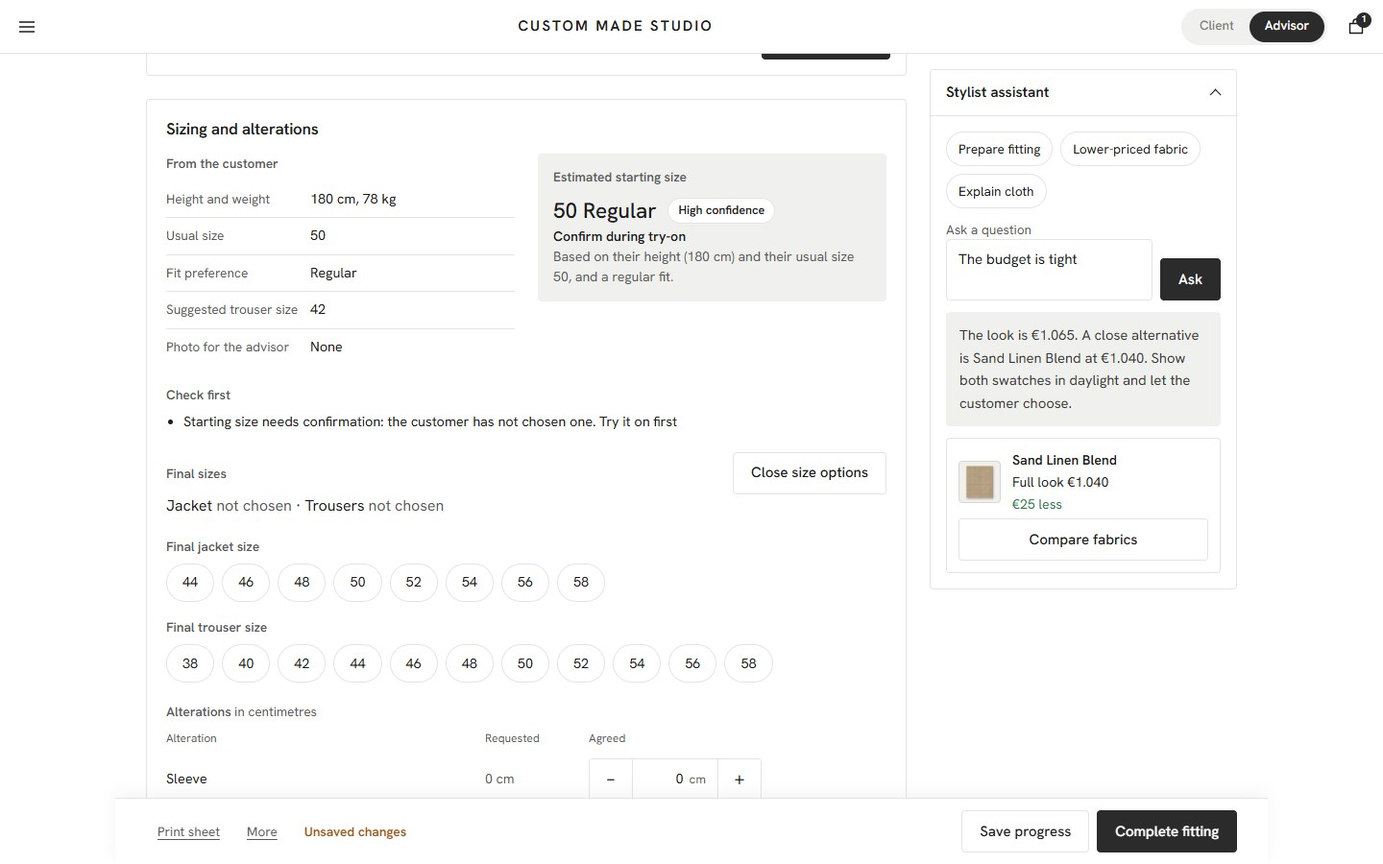
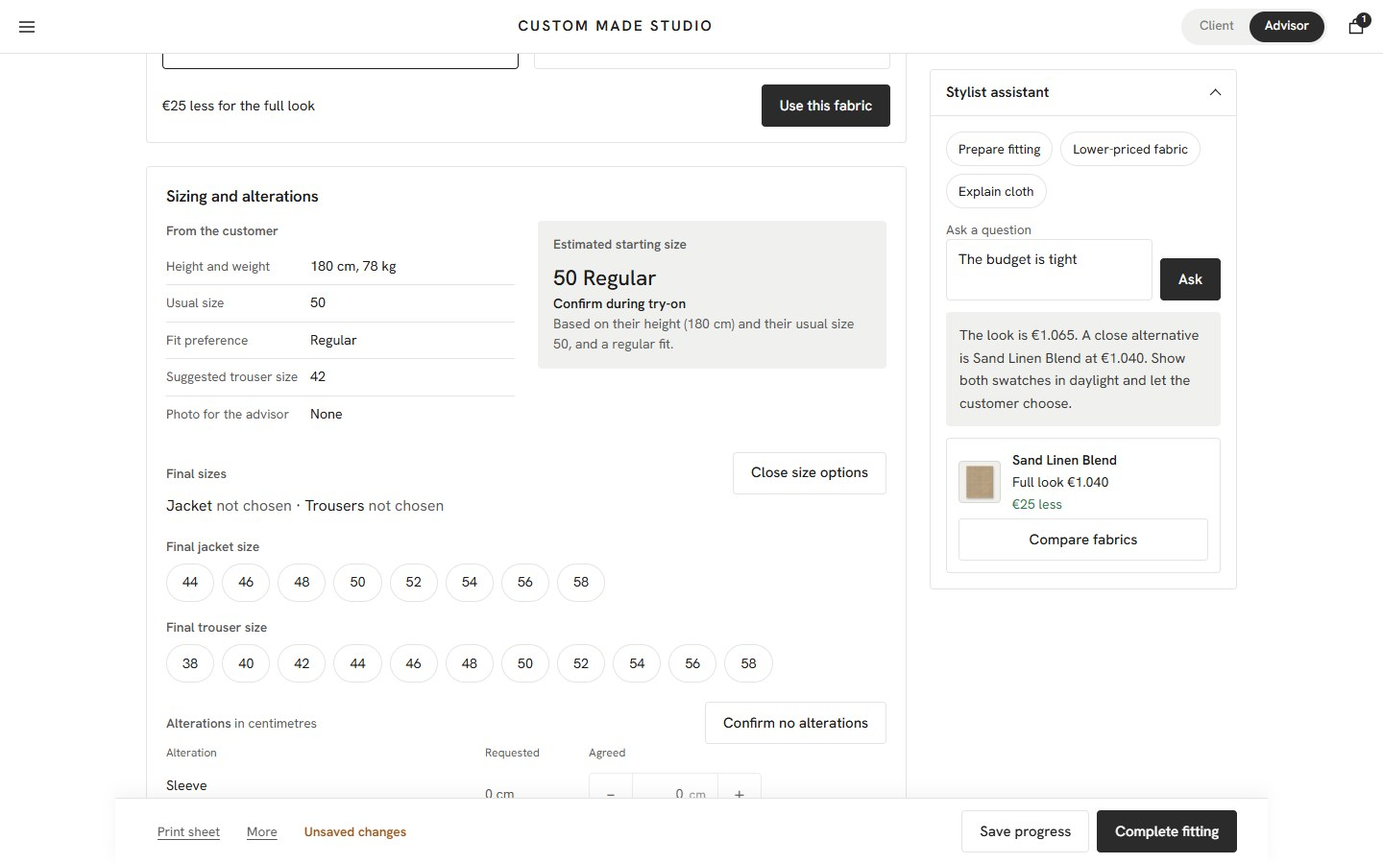
Advisor round 4: separate save state, alterations not-reviewed and confirm, all missing items flagged, no confidence badge, aligned print table, clean option prices, phone More menu; 130 checks

diff --git a/js/app.js b/js/app.js
@@ -372,7 +372,9 @@
     var box = target || $('adjs'); box.innerHTML = '';
     D.adjustments.forEach(function (a) {
       var row = el('div', 'adj');
-      row.appendChild(el('span', '', a.label));
+      var lab = el('span', '', a.label), note = null;
+      if (requested) { note = el('small', 'adj-note', ''); lab.appendChild(note); }
+      row.appendChild(lab);
       if (requested) { var rq = requested[a.key] || 0; row.appendChild(el('span', 'adj-req', rq ? (rq > 0 ? '+' : '') + rq + ' cm' : '0 cm')); }
       if (requested) row.appendChild(el('span', 'adj-agreed-lab', 'Agreed'));
       var s = el('div', 'stepper');
@@ -380,11 +382,12 @@
       var inp = s.querySelector('input'), bt = s.querySelectorAll('button');
       var values = agreed || st.adj;
       var cur = values[a.key] || 0; inp.value = cur > 0 ? '+' + cur : String(cur);
-      var set = function (v) { v = Math.max(-4, Math.min(4, Math.round(v * 2) / 2)); values[a.key] = v; if (agreed) st.agreed[a.key] = v; inp.value = v > 0 ? '+' + v : String(v); if (!agreed) update(); else if (requested) row.classList.toggle('is-changed', v !== (requested[a.key] || 0)); };
+      var mark = function () { if (note) { var seen = Object.prototype.hasOwnProperty.call(st.agreed, a.key); note.textContent = seen ? '' : 'Not reviewed'; row.classList.toggle('is-unreviewed', !seen); } };
+      var set = function (v) { v = Math.max(-4, Math.min(4, Math.round(v * 2) / 2)); values[a.key] = v; if (agreed) st.agreed[a.key] = v; mark(); if (requested && altsConfirmed()) { clearErr('alts'); var ae = $('advAltError'), cb = $('advConfirmAlts'), dn = $('advAltsDone'); if (ae) ae.hidden = true; if (cb) cb.hidden = true; if (dn) dn.hidden = false; } inp.value = v > 0 ? '+' + v : String(v); if (!agreed) update(); else if (requested) row.classList.toggle('is-changed', v !== (requested[a.key] || 0)); };
       bt[0].onclick = function () { set(values[a.key] - 0.5); };
       bt[1].onclick = function () { set(values[a.key] + 0.5); };
       inp.onchange = function () { var v = parseFloat(inp.value.replace(',', '.')); set(isNaN(v) ? 0 : v); };
-      row.appendChild(s); box.appendChild(row);
+      row.appendChild(s); box.appendChild(row); mark();
       if (requested) row.classList.toggle('is-changed', (values[a.key] || 0) !== (requested[a.key] || 0));
     });
   }
@@ -558,29 +561,31 @@
     if (advDirty() && advUi.status && !advUi.saveFail) advUi.status = null; /* an edit replaces the last message at once */
     paintStatus();
   }
+  function altsConfirmed() {
+    var ag = st.agreed || {};
+    return D.adjustments.every(function (a) { return Object.prototype.hasOwnProperty.call(ag, a.key); });
+  }
+  function clearErr(key) { if (advUi.errs) advUi.errs[key] = null; }
   function nowHM() { var d = new Date(); return String(d.getHours()).padStart(2, '0') + ':' + String(d.getMinutes()).padStart(2, '0'); }
   /* switching customers never throws away unsaved work: save and switch, or discard, or keep editing */
   function guardSwitch(go) {
     if (!advDirty()) { go(); return; }
     advUi.pending = go; renderAdvisor();
   }
-  function advReset() { advUi.base = null; advUi.pending = null; advUi.lookup = false; advUi.contact = false; advUi.sizeError = null; advUi.optMore = false; advUi.savedAt = null; advUi.saveFail = false; advUi.lookRows = false; advUi.focusSize = null; advUi.walk = false; advUi.follow = false; advUi.question = ''; advUi.search = ''; advUi.answer = null; advUi.status = null; advUi.assist = null; advUi.fabric = false; advUi.sizes = false; }
+  function advReset() { advUi.base = null; advUi.pending = null; advUi.lookup = false; advUi.contact = false; advUi.errs = null; advUi.optMore = false; advUi.savedAt = null; advUi.saveFail = false; advUi.lookRows = false; advUi.focusSize = null; advUi.walk = false; advUi.follow = false; advUi.question = ''; advUi.search = ''; advUi.answer = null; advUi.status = null; advUi.assist = null; advUi.fabric = false; advUi.sizes = false; }
   function flash(message, kind) {
     var d = new Date(), at = String(d.getHours()).padStart(2, '0') + ':' + String(d.getMinutes()).padStart(2, '0');
     advUi.status = { text: message, kind: kind || 'ok', at: at };
     paintStatus();
   }
   function paintStatus() {
-    var box = $('advStatus'); if (!box) return;
+    var box = $('advStatus'), stateBox = $('advSaveState'); if (!box || !stateBox) return;
     var s = advUi.status, dirty = advDirty();
-    if (s && (s.kind === 'error' || !dirty)) {
-      box.className = 'adv-status-line is-' + s.kind;
-      box.textContent = s.text + (s.kind === 'ok' ? ' · ' + s.at : '');
-      return;
-    }
     var state = advUi.saveFail ? 'Save failed. Retry' : dirty ? 'Unsaved changes' : advUi.savedAt ? 'Saved at ' + advUi.savedAt + ' in this browser' : st.code ? 'Saved in this browser' : 'Not saved';
-    box.className = 'adv-status-line is-state' + (advUi.saveFail ? ' is-error' : dirty ? ' is-dirty' : '');
-    box.textContent = state;
+    stateBox.className = 'adv-save-state' + (advUi.saveFail ? ' is-error' : dirty ? ' is-dirty' : '');
+    stateBox.textContent = state;
+    if (s && (s.kind === 'error' || !dirty)) { box.className = 'adv-status-line is-' + s.kind; box.textContent = s.text + (s.kind === 'ok' ? ' · ' + s.at : ''); }
+    else { box.className = 'adv-status-line'; box.textContent = ''; }
   }
 
   function wireStylistAssistant() {
@@ -640,8 +645,8 @@
         var body = el('div', 'adv-option-text');
         body.appendChild(el('b', '', c.name));
         body.appendChild(el('span', 'adv-option-weave', weaveLabel[c.weave] || c.weave));
-        var price = el('span', 'adv-option-price' + (d < 0 ? ' is-less' : ''), 'Full look ' + money(total() + d) + ' · '); price.appendChild(el('span', 'nw', d === 0 ? 'same price' : (d > 0 ? '+' : '−') + money(Math.abs(d))));
-        body.appendChild(price);
+        body.appendChild(el('span', 'adv-option-price', 'Full look ' + money(total() + d)));
+        body.appendChild(el('span', 'adv-option-diff' + (d < 0 ? ' is-less' : ''), d === 0 ? 'Same price' : money(Math.abs(d)) + (d > 0 ? ' more' : ' less')));
         if (seen.indexOf(c.id) > -1) body.appendChild(el('span', 'adv-option-tag', 'Shown online'));
         var go = el('button', 'btn ghost', 'Compare'); go.type = 'button'; go.setAttribute('aria-label', 'Compare ' + c.name);
         go.onclick = function () { openCompare(c); };
@@ -964,13 +969,13 @@
     var dflt = JSON.parse(initialFitting), unprov = !!(st.advWalk && st.h === dflt.h && st.w === dflt.w && st.usual === dflt.usual && !st.chest && !st.self);
     var checks = [];
     if (unprov) checks.push('No customer measurements yet. Measure height, weight and chest before choosing a size');
-    else if (!st.size) checks.push('Starting size needs confirmation: the customer has not chosen one. Try it on first');
-    else if (st.level === 'Low') checks.push('Starting size needs confirmation: low confidence on ' + sizeText() + '. Measure before the try-on');
-    else if (st.level === 'Medium') checks.push('Confirm the starting size ' + sizeText() + ' at the try-on (medium confidence)');
+    else if (st.level === 'Low') checks.push('The estimate is rough. Measure chest and shoulders before the try-on');
     if (st.mono.trim()) checks.push('Embroider initials ' + st.mono.toUpperCase() + ' inside the jacket lining');
     var when = st.slot ? st.slot + ', ' + st.city : st.walk ? 'Walk-in' : 'No appointment yet';
     if (!st.agreed) st.agreed = {};
     var agreed = Object.assign({}, st.adj, st.agreed);
+    var errs = advUi.errs || {};
+    var allZero = D.adjustments.every(function (a) { return !agreed[a.key]; });
     var differs = (st.finalSize && st.finalSize !== sg.size) || (st.finalPants && st.finalPants !== pantsSize());
     var dz = curDesign(), status = st.outcome || deciding, statusClass = status === orderReview ? 'is-ready' : status === followUp ? 'is-follow' : 'is-open';
     box.innerHTML =
@@ -979,7 +984,7 @@
       '<div class="adv-bar adv-noprint' + (advUi.lookup ? ' is-lookup' : '') + '">' +
         '<div class="adv-bar-row">' +
           '<form id="openFitting" class="adv-open"><label for="lookupCode">Fitting code</label><input id="lookupCode" type="text" placeholder="CM-XXXXXX" autocomplete="off" autocapitalize="characters" spellcheck="false" maxlength="16"><button type="submit" class="btn">Open fitting</button></form>' +
-          '<div class="adv-bar-tools"><button type="button" class="btn ghost" id="advWalkToggle" aria-expanded="false" aria-controls="walkPanel">Start walk-in</button><button type="button" class="btn ghost" id="advFollowToggle" aria-expanded="false" aria-controls="followPanel"><span id="followCount">Follow-ups</span></button><button type="button" class="btn ghost adv-mobile-only" id="advLookupToggle" aria-expanded="' + (advUi.lookup ? 'true' : 'false') + '" aria-controls="openFitting">Open another fitting</button><span class="adv-mobile-only adv-tool-quiet"><button type="button" class="adv-quiet" id="advPrintTop">Print sheet</button><details class="adv-more"><summary class="adv-quiet">More</summary><div class="adv-more-menu"><button type="button" class="adv-quiet" id="advCsvTop">Export log</button></div></details></span></div>' +
+          '<div class="adv-bar-tools"><button type="button" class="btn ghost" id="advWalkToggle" aria-expanded="false" aria-controls="walkPanel">Start walk-in</button><button type="button" class="btn ghost" id="advFollowToggle" aria-expanded="false" aria-controls="followPanel"><span id="followCount">Follow-ups</span></button><button type="button" class="btn ghost adv-mobile-only" id="advLookupToggle" aria-expanded="' + (advUi.lookup ? 'true' : 'false') + '" aria-controls="openFitting">Open another fitting</button><details class="adv-more adv-mobile-only"><summary class="adv-quiet">More</summary><div class="adv-more-menu"><button type="button" class="adv-quiet" id="advPrintTop">Print sheet</button><button type="button" class="adv-quiet" id="advCsvTop">Export log</button></div></details></div>' +
         '</div>' +
         '<p id="lookupStatus" class="adv-bar-note" role="status"></p>' +
         '<section id="walkPanel" class="adv-panel" aria-label="Start a walk-in" hidden><div class="adv-panel-head"><h4>New walk-in</h4><button type="button" class="adv-quiet" id="walkCancel">Cancel</button></div><form id="walkForm" class="adv-form-grid"><label for="walkName">Customer name<input id="walkName" type="text" maxlength="80" autocomplete="off"></label><label for="walkOcc">Occasion<select id="walkOcc"></select></label><label for="walkDate">Event date (optional)<input type="date" id="walkDate"></label><label for="walkBudget">Budget in euros (optional)<input type="number" min="1" id="walkBudget" inputmode="numeric"></label><div class="adv-form-actions"><button class="btn">Start consultation</button></div></form></section>' +
@@ -1019,18 +1024,18 @@
             '<h3 id="advFitH">Sizing and alterations</h3>' +
             '<div class="adv-two">' +
               '<div><h4>From the customer</h4>' + advRows(unprov ? [['Height and weight', '<span class="muted">Not provided</span>'], ['Usual size', '<span class="muted">Not provided</span>'], ['Fit preference', '<span class="muted">Not provided</span>'], ['Photo for the advisor', 'None']] : [['Height and weight', st.h + ' cm, ' + st.w + ' kg'], ['Usual size', st.notSure ? 'Not sure' + (st.chest ? ', chest ' + st.chest + ' cm' : '') : String(st.usual)], ['Fit preference', escapeName(st.pref)], ['Suggested trouser size', String(pantsSize())], ['Photo for the advisor', st.self ? '<button type="button" class="adv-link" id="advPhoto">View photo</button>' : 'None']]) + '</div>' +
-              '<div class="adv-start"><h4>' + (unprov ? 'Provisional starting size' : 'Estimated starting size') + '</h4><p class="adv-start-size"><b>' + sizeLabel(sg.size, sg.group) + ' ' + cap(sg.group) + '</b><span class="pill neutral' + (unprov ? ' low' : '') + '">' + (unprov ? 'Provisional' : sg.level + ' confidence') + '</span></p><p class="adv-start-confirm">Confirm during try-on</p><p class="adv-start-why">' + (unprov ? 'Based on default measurements, not on the customer. Confirm in person.' : sg.text.replace(/\byour\b/g, 'their')) + '</p></div>' +
+              '<div class="adv-start"><h4>' + (unprov ? 'Provisional starting size' : 'Estimated starting size') + '</h4><p class="adv-start-size"><b>' + sizeLabel(sg.size, sg.group) + ' ' + cap(sg.group) + '</b>' + (unprov ? '<span class="pill neutral low">Provisional</span>' : '') + '</p><p class="adv-start-confirm">Confirm during try-on</p><p class="adv-start-why">' + (unprov ? 'Based on default measurements, not on the customer. Confirm in person.' : sg.text.replace(/\byour\b/g, 'their')) + '</p></div>' +
             '</div>' +
             (checks.length ? '<div class="adv-block"><h4>Check first</h4><ul class="adv-list">' + checks.map(function (x) { return '<li>' + x + '</li>'; }).join('') + '</ul></div>' : '') +
             '<div class="adv-block adv-final" id="advFinal"><div class="adv-final-head"><h4>Final sizes</h4><button type="button" class="btn ghost adv-noprint" id="advSizeToggle" aria-expanded="' + (advUi.sizes ? 'true' : 'false') + '" aria-controls="advSizePick">' + (advUi.sizes ? 'Close size options' : (st.finalSize || st.finalPants ? 'Change sizes' : 'Choose sizes')) + '</button></div>' +
               '<p class="adv-final-line" id="advFinalLine">' + (st.finalSize ? 'Jacket <b>' + sizeLabel(st.finalSize, g) + '</b>' : 'Jacket <span class="muted">not chosen</span>') + ' · ' + (st.finalPants ? 'Trousers <b>' + st.finalPants + '</b>' : 'Trousers <span class="muted">not chosen</span>') + '</p>' +
               '<div id="advSizePick" class="adv-size-pick"' + (advUi.sizes ? '' : ' hidden') + '>' +
-                '<h4 id="finalJacketLbl">Final jacket size</h4><div class="chips" id="advSizes" role="group" aria-labelledby="finalJacketLbl"></div><p class="adv-field-error" id="advSizeError" role="alert"' + (advUi.sizeError && advUi.sizeFor === 'jacket' ? '' : ' hidden') + '>' + escapeName(advUi.sizeError || '') + '</p>' +
-                '<h4 id="finalTrouserLbl">Final trouser size</h4><div class="chips" id="advPants" role="group" aria-labelledby="finalTrouserLbl"></div><p class="adv-field-error" id="advPantsError" role="alert"' + (advUi.sizeError && advUi.sizeFor === 'trouser' ? '' : ' hidden') + '>' + escapeName(advUi.sizeError || '') + '</p>' +
+                '<h4 id="finalJacketLbl">Final jacket size</h4><div class="chips" id="advSizes" role="group" aria-labelledby="finalJacketLbl"></div><p class="adv-field-error" id="advSizeError" role="alert"' + (errs.jacket ? '' : ' hidden') + '>' + escapeName(errs.jacket || '') + '</p>' +
+                '<h4 id="finalTrouserLbl">Final trouser size</h4><div class="chips" id="advPants" role="group" aria-labelledby="finalTrouserLbl"></div><p class="adv-field-error" id="advPantsError" role="alert"' + (errs.trouser ? '' : ' hidden') + '>' + escapeName(errs.trouser || '') + '</p>' +
               '</div>' +
               '<p class="cmp" id="advCmp"></p><p class="cmp" id="advPCmp"></p></div>' +
             (differs ? '<div class="adv-block"><h4 id="whyLbl">Reason for change <span class="muted">optional</span></h4><div class="chips" id="advWhy" role="group" aria-labelledby="whyLbl"></div></div>' : '') +
-            '<div class="adv-block"><h4>Alterations <span class="muted">in centimetres</span></h4><div class="adv-alt-head" aria-hidden="true"><span>Alteration</span><span>Requested</span><span>Agreed</span></div><div class="adjs" id="advAdjs"></div></div>' +
+            '<div class="adv-block" id="advAlts"><div class="adv-final-head"><h4>Alterations <span class="muted">in centimetres</span></h4><button type="button" class="btn ghost adv-noprint" id="advConfirmAlts"' + (altsConfirmed() ? ' hidden' : '') + '>' + (allZero ? 'Confirm no alterations' : 'Confirm alterations as shown') + '</button><span class="adv-confirmed" id="advAltsDone"' + (altsConfirmed() ? '' : ' hidden') + '>All confirmed</span></div><p class="adv-field-error" id="advAltError" role="alert"' + (errs.alts ? '' : ' hidden') + '>' + escapeName(errs.alts || '') + '</p><div class="adv-alt-head" aria-hidden="true"><span>Alteration</span><span>Requested</span><span>Agreed</span></div><div class="adjs" id="advAdjs"></div></div>' +
             '<div class="adv-block"><label for="advNotes" class="adv-label">Workroom notes</label><textarea id="advNotes" placeholder="Shoulders, posture, anything for the workroom"></textarea><div class="adv-print-only" id="advNotesPrint"></div></div>' +
           '</section>' +
           '<section class="adv-card" id="advOutcome" aria-labelledby="advOutcomeH">' +
@@ -1050,20 +1055,20 @@
           '<details class="adv-card adv-contact" id="advContact"' + (advUi.contact ? ' open' : '') + '><summary>Contact</summary><div class="adv-detail-body">' + contactHtml() + '</div></details>' +
         '</aside>' +
       '</div>' +
-      '<div class="adv-actions adv-noprint"><div class="adv-actions-quiet adv-desktop-only"><button type="button" class="adv-quiet" id="advPrint">Print sheet</button><details class="adv-more"><summary class="adv-quiet">More</summary><div class="adv-more-menu"><button type="button" class="adv-quiet" id="advCsv">Export log</button></div></details></div><p id="advStatus" class="adv-status-line" role="status" aria-live="polite"></p><div class="adv-actions-main"><button type="button" class="btn ghost" id="advDraft">Save progress</button><button type="button" class="btn" id="advSave">Complete fitting</button></div></div>' +
+      '<div class="adv-actions adv-noprint"><div class="adv-actions-quiet adv-desktop-only"><button type="button" class="adv-quiet" id="advPrint">Print sheet</button><details class="adv-more"><summary class="adv-quiet">More</summary><div class="adv-more-menu"><button type="button" class="adv-quiet" id="advCsv">Export log</button></div></details></div><div class="adv-status-wrap"><span id="advSaveState" class="adv-save-state"></span><p id="advStatus" class="adv-status-line" role="status" aria-live="polite"></p></div><div class="adv-actions-main"><button type="button" class="btn ghost" id="advDraft">Save progress</button><button type="button" class="btn" id="advSave">Complete fitting</button></div></div>' +
       '</div>';
 
-    fill('advSizes', D.sizes.map(function (x) { var b = chip(sizeLabel(x, g), st.finalSize === x, function () { st.finalSize = st.finalSize === x ? null : x; advUi.sizeError = null; renderAdvisor(); }); b.id = 'advSize-' + x; return b; }));
+    fill('advSizes', D.sizes.map(function (x) { var b = chip(sizeLabel(x, g), st.finalSize === x, function () { st.finalSize = st.finalSize === x ? null : x; clearErr('jacket'); renderAdvisor(); }); b.id = 'advSize-' + x; return b; }));
     var cmp = $('advCmp');
     if (st.finalSize) { var same = st.finalSize === sg.size; cmp.className = 'cmp ' + (same ? 'ok' : 'diff'); cmp.textContent = same ? 'Matches the suggestion.' : 'Differs from the suggestion (' + sizeLabel(sg.size, g) + ' suggested, ' + sizeLabel(st.finalSize, g) + ' final).'; }
-    fill('advPants', D.pantsSizes.map(function (x) { var b = chip(String(x), st.finalPants === x, function () { st.finalPants = st.finalPants === x ? null : x; advUi.sizeError = null; renderAdvisor(); }); b.id = 'advPantsSize-' + x; return b; }));
+    fill('advPants', D.pantsSizes.map(function (x) { var b = chip(String(x), st.finalPants === x, function () { st.finalPants = st.finalPants === x ? null : x; clearErr('trouser'); renderAdvisor(); }); b.id = 'advPantsSize-' + x; return b; }));
     var pcmp = $('advPCmp');
     if (st.finalPants) { var psame = st.finalPants === pantsSize(); pcmp.className = 'cmp ' + (psame ? 'ok' : 'diff'); pcmp.textContent = psame ? 'Matches the suggestion.' : 'Differs from the suggestion (' + pantsSize() + ' suggested, ' + st.finalPants + ' final).'; }
     if ($('advWhy')) fill('advWhy', WHY.map(function (w, i) { var b = chip(w, st.why.indexOf(w) > -1, function () { var k = st.why.indexOf(w); if (k > -1) st.why.splice(k, 1); else st.why.push(w); renderAdvisor(); }); b.id = 'advWhy-' + i; return b; }));
     $('advCsv').onclick = exportFitLog;
     $('fabSwatch').setAttribute('style', swatch(c, 60));
     var fab = $('advFabric'); fab.open = !!advUi.fabric; fab.ontoggle = function () { advUi.fabric = fab.open; };
-    $('advSizeToggle').onclick = function () { advUi.sizes = !advUi.sizes; advUi.sizeError = null; renderAdvisor(); };
+    $('advSizeToggle').onclick = function () { advUi.sizes = !advUi.sizes; renderAdvisor(); };
     $('advLookupToggle').onclick = function () { advUi.lookup = !advUi.lookup; renderAdvisor(); if (advUi.lookup) $('lookupCode').focus(); };
     $('advPrintTop').onclick = function () { window.print(); };
     $('advCsvTop').onclick = exportFitLog;
@@ -1081,7 +1086,11 @@
     };
     function fillPrintHead() { var h = $('advPrintHead'); if (h) h.textContent = 'Fitting sheet · ' + (st.code || 'not saved') + ' · printed ' + localDay() + ((st.outcome || deciding) === orderReview ? '' : ' · DRAFT, not completed'); }
     fillPrintHead(); window.onbeforeprint = fillPrintHead;
-    function blockSizes(which, inline, short) { advUi.sizes = true; advUi.sizeError = inline; advUi.sizeFor = which; advUi.focusSize = which; renderAdvisor(); flash(short, 'error'); }
+    function blockComplete(errs, message) { if (errs.jacket || errs.trouser) advUi.sizes = true; advUi.errs = errs; advUi.focusSize = errs.jacket ? 'jacket' : errs.trouser ? 'trouser' : 'alts'; renderAdvisor(); flash(message, 'error'); }
+    $('advConfirmAlts').onclick = function () {
+      D.adjustments.forEach(function (a) { if (!Object.prototype.hasOwnProperty.call(st.agreed, a.key)) st.agreed[a.key] = agreed[a.key] || 0; });
+      clearErr('alts'); renderAdvisor();
+    };
     $('advBriefText').textContent = st.brief || (st.reference ? '' : 'No styling request from the customer yet. Ask where they will wear the suit.');
     $('advBriefText').className = st.brief || st.reference ? '' : 'adv-empty';
     if (st.reference) { $('advReference').src = st.reference; $('advReference').hidden = false; }
@@ -1102,8 +1111,9 @@
     assist.open = advUi.assist == null ? wide.matches : advUi.assist; assist.ontoggle = function () { advUi.assist = assist.open; };
     $('advDraft').onclick = function () {
       if (st.outcome === orderReview && (!st.finalSize || !st.finalPants)) {
-        var missing = !st.finalSize ? 'jacket' : 'trouser', msg = 'Ready for order review needs the final ' + missing + ' size. Choose it, or set the status to Customer deciding.';
-        $('advLog').textContent = msg; blockSizes(missing, msg, msg); return;
+        var dErrs = {}, missing = !st.finalSize ? 'jacket' : 'trouser', msg = 'Ready for order review needs the final ' + missing + ' size. Choose it, or set the status to Customer deciding.';
+        if (!st.finalSize) dErrs.jacket = msg; if (!st.finalPants) dErrs.trouser = msg;
+        $('advLog').textContent = msg; blockComplete(dErrs, msg); return;
       }
       try {
         var code = writeFitting('draft'); advUi.base = null; advUi.savedAt = nowHM(); advUi.saveFail = false; renderAdvisor();
@@ -1112,8 +1122,11 @@
       } catch (e) { advUi.saveFail = true; $('advLog').textContent = 'Could not save in this browser.'; flash('Could not save in this browser.', 'error'); }
     };
     $('advSave').onclick = function () {
-      if (!st.finalSize) { $('advLog').textContent = 'Choose the final size first.'; blockSizes('jacket', 'Choose the final jacket size to complete the fitting.', 'Choose the final jacket size first.'); return; }
-      if (!st.finalPants) { $('advLog').textContent = 'Choose the final trouser size too.'; blockSizes('trouser', 'Choose the final trouser size to complete the fitting.', 'Choose the final trouser size too.'); return; }
+      var cErrs = {}, parts = [];
+      if (!st.finalSize) { cErrs.jacket = 'Choose the final jacket size to complete the fitting.'; parts.push('choose the final jacket size'); }
+      if (!st.finalPants) { cErrs.trouser = 'Choose the final trouser size to complete the fitting.'; parts.push('choose the final trouser size'); }
+      if (!altsConfirmed()) { cErrs.alts = 'Confirm the alterations, even if there are none.'; parts.push('confirm the alterations'); }
+      if (parts.length) { var cMsg = 'To complete: ' + parts.join(', ') + '.'; $('advLog').textContent = cMsg; blockComplete(cErrs, cMsg); return; }
       try {
         st.agreed = Object.assign({}, st.adj, st.agreed);
         st.outcome = orderReview; st.followDate = ''; st.nextStep = '';
@@ -1145,8 +1158,9 @@
     /* a blocked completion takes the advisor to the missing size, with the message right there */
     if (advUi.focusSize) {
       var which = advUi.focusSize; advUi.focusSize = null;
-      $('advFinal').scrollIntoView({ block: 'start', behavior: 'instant' });
-      var group = which === 'trouser' ? $('advPants') : $('advSizes'); group.querySelector('.chip').focus({ preventScroll: true });
+      if (which !== 'alts') $('advFinal').scrollIntoView({ block: 'start', behavior: 'instant' });
+      if (which === 'alts') { $('advAlts').scrollIntoView({ block: 'start', behavior: 'instant' }); $('advConfirmAlts').focus({ preventScroll: true }); }
+      else { var group = which === 'trouser' ? $('advPants') : $('advSizes'); group.querySelector('.chip').focus({ preventScroll: true }); }
     }
   }
 

diff --git a/tests/stylist-test.html b/tests/stylist-test.html
@@ -197,6 +197,7 @@
     doc.querySelectorAll('#advSizes .chip')[3].click(); await w(250);
     doc.querySelectorAll('#advPants .chip')[4].click(); await w(250);
     doc.querySelectorAll('#advWhy .chip')[0].click(); await w(250);
+    var ca0 = doc.getElementById('advConfirmAlts'); if (ca0 && !ca0.hidden) { ca0.click(); await w(250); }
     doc.getElementById('advSave').click(); await w(300);
     var recKey = Object.keys(win.localStorage).filter(function (k) { return k.indexOf('cm-fitting-v1-') === 0; })[0], fl = (recKey && win.localStorage.getItem(recKey)) || '', logTxt = doc.getElementById('advLog').textContent;
     record('save a fitting with pants size and a reason', 'the log keeps confidence, pants sizes, reason and version', fl.slice(0, 90), /"level":"/.test(fl) && /"pFinal":46/.test(fl) && /"why":\["Shoulders"\]/.test(fl) && /"rev":"sizing-v2-pants"/.test(fl));
@@ -261,6 +262,7 @@
     record('complete fitting without a trouser size', 'asks for the final trouser size', doc.getElementById('advStatus').textContent, /trouser size/i.test(doc.getElementById('advStatus').textContent));
     doc.querySelector('#advPants .chip').click(); await w(150);
     record('unsaved changes', 'indicator shows after choosing sizes', doc.getElementById('advDirty').hidden ? 'hidden' : 'shown', !doc.getElementById('advDirty').hidden);
+    var ca1 = doc.getElementById('advConfirmAlts'); if (ca1 && !ca1.hidden) { ca1.click(); await w(250); }
     doc.getElementById('advSave').click(); await w(250);
     record('complete fitting', 'status becomes Ready for order review', doc.querySelector('.adv-state').textContent, /Ready for order review/.test(doc.querySelector('.adv-state').textContent) && /completed/i.test(doc.getElementById('advStatus').textContent));
     var pOn = doc.querySelector('#advPants .chip[aria-pressed=true]'); if (pOn) { pOn.click(); await w(150); }
@@ -275,7 +277,7 @@
     var altAns = await ask('What else could we show them?');
     var optCards = doc.querySelectorAll('#stylistOptions .adv-option');
     record('alternatives answer', 'a short line, no numbered list, one card per option (1 to 3)', altAns.slice(0, 70) + ' / ' + optCards.length + ' cards', optCards.length >= 1 && optCards.length <= 3 && !/\n\s*1\./.test(altAns) && !doc.getElementById('stylistOptions').hidden && doc.getElementById('stylistAlt').hidden);
-    record('option cards', 'each has a weave, a full-look price with the difference and a labelled Compare button', optCards.length + ' cards', optCards.length > 0 && Array.prototype.every.call(optCards, function (c) { return /Full look €[\d.,]+ · (same price|[+−]€)/.test(c.textContent) && /^Compare /.test(c.querySelector('button').getAttribute('aria-label')) && c.querySelector('.adv-option-weave').textContent.length > 0; }) && doc.getElementById('stylistOptions').getAttribute('aria-label') === 'Suggested fabrics');
+    record('option cards', 'each has a weave, a full-look price, the difference on its own line and a labelled Compare button', optCards.length + ' cards', optCards.length > 0 && Array.prototype.every.call(optCards, function (c) { return /Full look €[\d.,]+/.test(c.querySelector('.adv-option-price').textContent) && /(Same price|€[\d.,]+ (more|less))/.test(c.querySelector('.adv-option-diff').textContent) && /^Compare /.test(c.querySelector('button').getAttribute('aria-label')) && c.querySelector('.adv-option-weave').textContent.length > 0; }) && doc.getElementById('stylistOptions').getAttribute('aria-label') === 'Suggested fabrics');
     var lastCard = optCards[optCards.length - 1], lastName = lastCard.querySelector('b').textContent;
     lastCard.querySelector('button').click(); await w(300);
     record('Compare on an option card', 'opens the comparison with that fabric against the current one', lastName + ' / ' + doc.getElementById('secondName').textContent, !doc.getElementById('clothPair').hidden && doc.getElementById('secondName').textContent === lastName && doc.getElementById('advFabric').open);
@@ -290,11 +292,11 @@
     doc.querySelector('#advSizes .chip').click(); await w(150);
     record('choosing the missing size', 'clears the inline error', doc.getElementById('advSizeError').hidden ? 'cleared' : 'still shown', doc.getElementById('advSizeError').hidden);
     var nt = doc.getElementById('advNotes'); nt.value = 'status check'; nt.dispatchEvent(new win.Event('input', { bubbles: true })); await w(100);
-    record('save state after an edit', 'says Unsaved changes', doc.getElementById('advStatus').textContent, /Unsaved changes/.test(doc.getElementById('advStatus').textContent));
+    record('save state after an edit', 'says Unsaved changes', doc.getElementById('advSaveState').textContent, /Unsaved changes/.test(doc.getElementById('advSaveState').textContent));
     doc.getElementById('advDraft').click(); await w(250);
-    record('save state after saving', 'confirms the save', doc.getElementById('advStatus').textContent, /Progress saved|Saved at/.test(doc.getElementById('advStatus').textContent));
+    record('save state after saving', 'confirms the save', doc.getElementById('advSaveState').textContent, /Saved at/.test(doc.getElementById('advSaveState').textContent));
     nt = doc.getElementById('advNotes'); nt.value = 'status check 2'; nt.dispatchEvent(new win.Event('input', { bubbles: true })); await w(100);
-    record('save state after a later edit', 'replaces the saved message at once', doc.getElementById('advStatus').textContent, /Unsaved changes/.test(doc.getElementById('advStatus').textContent));
+    record('save state after a later edit', 'replaces the saved message at once', doc.getElementById('advSaveState').textContent, /Unsaved changes/.test(doc.getElementById('advSaveState').textContent));
     var lookTxt = doc.getElementById('advLook').textContent, fitTxt = doc.getElementById('advFit').textContent;
     record('wording', 'Selected fabric, Base look and Estimated starting size', 'look/fit labels', /Selected fabric/.test(lookTxt) && /Base look/.test(lookTxt) && !/Design\b/.test(doc.getElementById('advLookRows').textContent.replace(/Design details/, '')) && /Estimated starting size|Provisional starting size/.test(fitTxt) && /Confirm during try-on/.test(fitTxt));
     record('size options control', 'is named Choose sizes, Change sizes or Close size options', doc.getElementById('advSizeToggle').textContent, /^(Choose sizes|Change sizes|Close size options)$/.test(doc.getElementById('advSizeToggle').textContent));
@@ -309,6 +311,23 @@
     record('walk-in panel', 'has a New walk-in heading and a Cancel button', doc.getElementById('walkPanel').querySelector('h4').textContent, !doc.getElementById('walkPanel').hidden && /New walk-in/.test(doc.getElementById('walkPanel').textContent) && !!doc.getElementById('walkCancel'));
     doc.getElementById('walkCancel').click(); await w(100);
     record('Cancel walk-in', 'closes the panel', doc.getElementById('walkPanel').hidden ? 'closed' : 'open', doc.getElementById('walkPanel').hidden);
+
+    group('Advisor round 4: alterations review, all missing items, no confidence badge');
+    var fresh = doc.getElementById('advSizes'); 
+    record('sizing block', 'no confidence badge, the estimate says to confirm during try-on', doc.getElementById('advFit').querySelector('.adv-start').textContent.slice(0, 60), !/High confidence|Medium confidence|Low confidence/.test(doc.getElementById('advFit').querySelector('.adv-start').textContent) && /Confirm during try-on/.test(doc.getElementById('advFit').querySelector('.adv-start').textContent));
+    var unrev = doc.querySelectorAll('#advAdjs .adj.is-unreviewed').length, confirmed0 = doc.getElementById('advAltsDone') && !doc.getElementById('advAltsDone').hidden;
+    record('alterations', 'unreviewed rows say Not reviewed until confirmed (or all are confirmed)', unrev + ' unreviewed', (unrev > 0 && /Not reviewed/.test(doc.getElementById('advAdjs').textContent)) || confirmed0);
+
+    await load();
+    var advB2 = Array.prototype.filter.call(doc.querySelectorAll('button'), function (b) { return /^Advisor$/.test(b.textContent.trim()); })[0]; advB2.click(); await w(500);
+    doc.getElementById('advSave').click(); await w(400);
+    var e1 = doc.getElementById('advSizeError'), e2 = doc.getElementById('advPantsError'), e3 = doc.getElementById('advAltError');
+    record('completing with nothing done', 'every missing item is flagged at once, each under its own group', [!e1.hidden, !e2.hidden, !e3.hidden].join('/'), !e1.hidden && !e2.hidden && !e3.hidden && doc.getElementById('advSizes').contains(doc.activeElement) && /jacket/.test(doc.getElementById('advStatus').textContent) && /trouser/.test(doc.getElementById('advStatus').textContent) && /alterations/.test(doc.getElementById('advStatus').textContent));
+    record('save state while an error shows', 'is still visible and separate from the error', doc.getElementById('advSaveState').textContent + ' / ' + doc.getElementById('advStatus').textContent.slice(0, 40), doc.getElementById('advSaveState').textContent.length > 0 && !doc.getElementById('advSaveState').contains(doc.getElementById('advStatus')));
+    doc.getElementById('advConfirmAlts').click(); await w(300);
+    record('Confirm no alterations', 'marks every row reviewed and clears that error', doc.getElementById('advAltsDone').hidden ? 'not confirmed' : 'all confirmed', !doc.getElementById('advAltsDone').hidden && doc.getElementById('advAltError').hidden && doc.querySelectorAll('#advAdjs .adj.is-unreviewed').length === 0);
+    doc.querySelector('#advSizes .chip').click(); await w(150);
+    record('choosing the jacket size', 'clears only its own error', doc.getElementById('advSizeError').hidden + '/' + doc.getElementById('advPantsError').hidden, doc.getElementById('advSizeError').hidden && !doc.getElementById('advPantsError').hidden);
 
     group('More Style me requests: new designs and cloths');
     await load();

diff --git a/css/style.css b/css/style.css
@@ -848,3 +848,34 @@ details.adv-card.adv-fabric,#advFabric{padding:0}
 @media (max-width:767px){.adv-tool-quiet{display:flex}}
 .adv-option-price .nw{white-space:nowrap}
 @media print{.adv-field-error,#advSizePick,.adv-ask,#advSizeToggle{display:none!important}}
+
+/* ===== round 4 ===== */
+.adv-status-wrap{flex:1;min-width:0;display:flex;flex-wrap:wrap;align-items:baseline;gap:2px 12px}
+.adv-save-state{font-size:.85rem;color:var(--muted);white-space:nowrap}
+.adv-save-state.is-dirty{color:var(--warn);font-weight:600}
+.adv-save-state.is-error{color:#a3271f;font-weight:600}
+.adv-status-line{flex:0 1 auto;min-width:0}
+.adv-status-line:empty{display:none}
+.adv-status-line.is-state{color:var(--muted)}
+.adv-note,.adj-note{display:block;font-size:.75rem;color:var(--muted);font-weight:400}
+.adv-ws .adj-note{display:block}
+.adv-ws .adj.is-unreviewed .stepper{opacity:.7}
+.adv-confirmed{font-size:.85rem;color:var(--good);font-weight:600}
+.adv-confirmed[hidden]{display:none}
+.adv-option-diff{font-size:.85rem}
+.adv-option-diff.is-less{color:var(--good)}
+.adv-bar .adv-more-menu{top:100%;bottom:auto;left:auto;right:0;margin:4px 0 0}
+@media (max-width:767px){
+  .adv-bar-tools .adv-more{margin-left:auto}
+  .adv-status-wrap{flex:1 1 100%}
+  .adv-save-state{font-size:.78rem}
+}
+@media print{
+  .adv-alt-head,.adv-ws .adj{grid-template-columns:minmax(120px,1fr) 90px 90px;max-width:620px}
+  .adv-alt-head span:nth-child(2),.adv-alt-head span:nth-child(3){text-align:right}
+  .adv-ws .adj .adj-req{text-align:right}
+  .adv-ws .adj .stepper{display:block;width:auto;text-align:right}
+  .adv-ws .adj .stepper label{justify-content:flex-end}
+  .adv-ws .adj .stepper input{text-align:right!important}
+  .adv-note,.adj-note,.adv-confirmed,#advConfirmAlts{display:none!important}
+}

diff --git a/index.html b/index.html
@@ -8,7 +8,7 @@
 <link rel="preconnect" href="https://fonts.googleapis.com">
 <link rel="preconnect" href="https://fonts.gstatic.com" crossorigin>
 <link rel="stylesheet" href="https://fonts.googleapis.com/css2?family=Hanken+Grotesk:wght@400;500;600&family=IBM+Plex+Mono:wght@500&display=swap">
-<link rel="stylesheet" href="css/style.css?v=149">
+<link rel="stylesheet" href="css/style.css?v=151">
 </head>
 <body>
 
@@ -319,10 +319,10 @@
   <p id="zoomCaption">High-resolution product image</p>
 </div>
 
-<script src="js/data.js?v=149"></script>
-<script src="js/config.js?v=149"></script>
-<script src="js/assistant.js?v=149"></script>
-<script src="js/stylist.js?v=149"></script>
-<script src="js/app.js?v=149"></script>
+<script src="js/data.js?v=151"></script>
+<script src="js/config.js?v=151"></script>
+<script src="js/assistant.js?v=151"></script>
+<script src="js/stylist.js?v=151"></script>
+<script src="js/app.js?v=151"></script>
 </body>
 </html>

diff --git a/README.md b/README.md
@@ -48,8 +48,8 @@ The same page has two views, switched at the top right. The customer builds the 
 - **A calm, compact workspace** (tablet first): customer name, appointment and fitting code at the top; open a fitting or start a walk-in from a small toolbar, with follow-ups in an expandable list. The stylist assistant stays in view beside the fitting on wide screens and folds under the look summary on a tablet. Contact details are collapsed until needed.
 - **Look and brief:** the full suit photo, fabric, design, total and delivery estimate, the customer's request and inspiration photo, and "Edit look together".
 - **Fabric:** the chosen cloth sits in one line with "Compare another fabric". It opens by itself when the assistant recommends an alternative, with both fabrics side by side, their totals, the difference and one "Use this fabric" button. Sizes, alterations and notes are kept.
-- **Sizing and alterations:** what the customer gave, an "Estimated starting size" marked "Confirm during try-on", only the things that need attention under "Check first", final jacket and trouser sizes shown compactly (Choose or Change sizes), a reason for change only when a final size differs, alterations as requested against agreed in cm, and workroom notes under them.
-- **Appointment outcome and saving:** status, next step and follow-up date. A status line beside the buttons always says where things stand: Not saved, Unsaved changes, Saved at 14:32 in this browser, or Save failed. "Complete fitting" needs both final sizes; if one is missing the size options open, focus moves to it and the message appears right under it.
+- **Sizing and alterations:** what the customer gave, an "Estimated starting size" marked "Confirm during try-on" (no confidence badge), only the things that need attention under "Check first", final jacket and trouser sizes shown compactly (Choose or Change sizes), a reason for change only when a final size differs, alterations as requested against agreed in cm (each row says "Not reviewed" until confirmed, with one "Confirm no alterations" button), and workroom notes under them.
+- **Appointment outcome and saving:** status, next step and follow-up date. A status line beside the buttons always says where things stand: Not saved, Unsaved changes, Saved at 14:32 in this browser, or Save failed. "Complete fitting" needs both final sizes and confirmed alterations; everything missing is flagged at once, each message under its own group, and focus moves to the first one. The save state never gets replaced by an error message.
 - **Trust in what is on screen:** a walk-in shows "Not provided" for measurements until the customer gives them, and its starting size is labelled provisional. Opening another fitting or starting a walk-in with unsaved changes offers Save and switch, Discard changes or Keep editing. A customer photo opens with View photo, and contact details can be added during the appointment.
 - **On a phone:** one slim bottom bar (Save progress, Complete fitting), Print sheet and More in the top toolbar, the lookup folded behind "Open another fitting", a small suit thumbnail you can tap to enlarge, and alterations stacked so Requested and Agreed both stay visible.
 - **Printing:** a plain sheet headed with the fitting code and print date, marked DRAFT until the fitting is completed.
